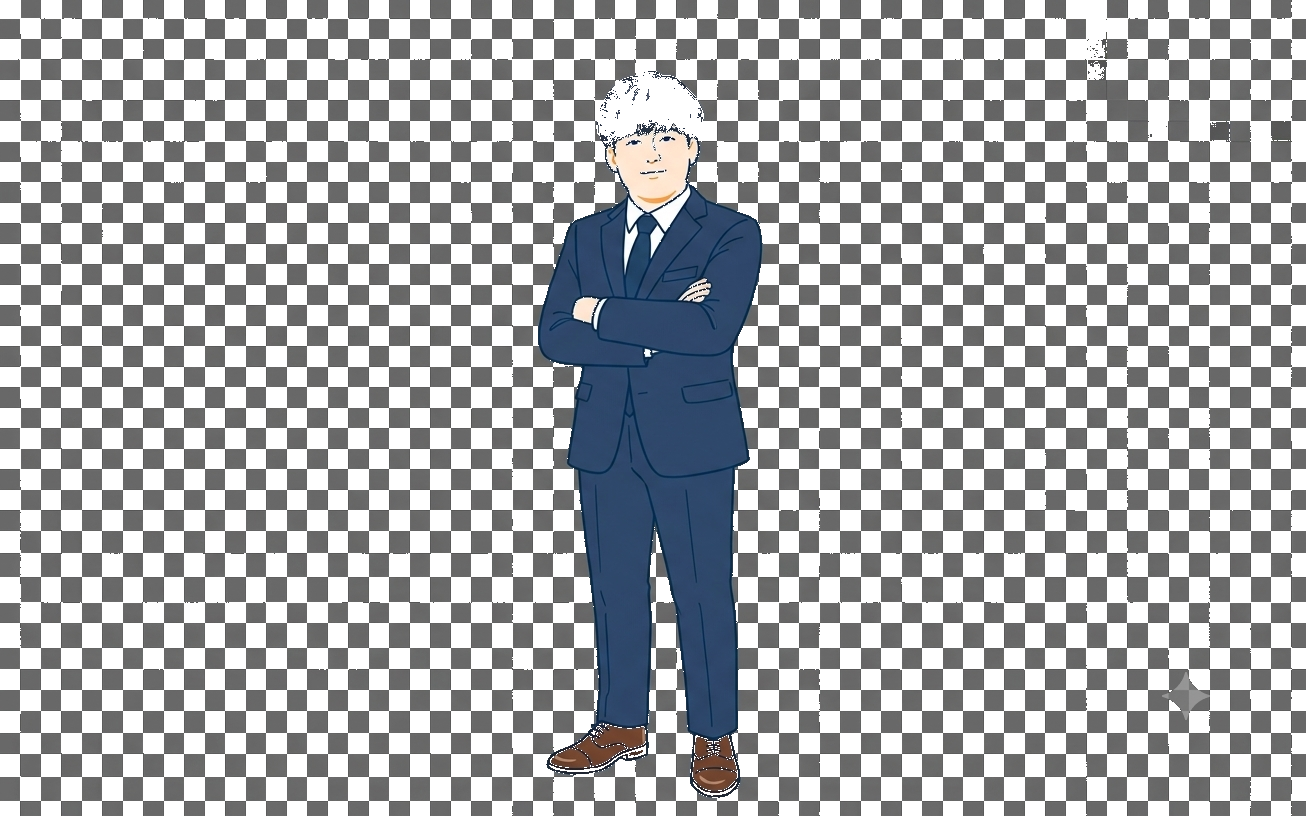
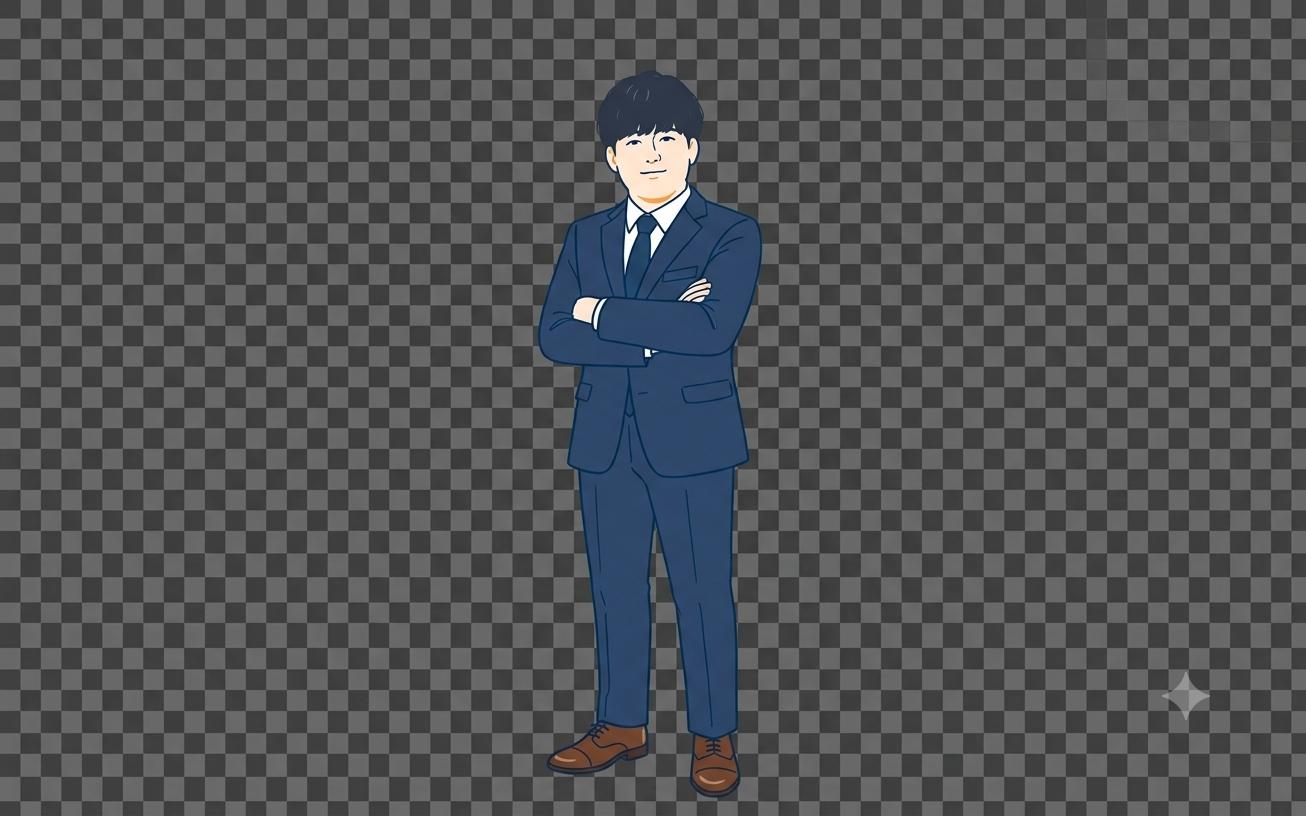
代表写真の髪の毛の色を修正・全ページレスポンシブ対応
- founder.png: 暗い背景のオリジナル画像を使用して髪の色を正常に表示
- about.html: CEO写真エリアの背景色を画像に合わせて調整
- index.html: モバイル対応強化（stat strip折り返し、CP表、各セクションpaddingなど）
- service-studio.html: モバイルナビ・全セクションレスポンシブ追加
- service-corporate/lp/renewal/system.html: hero・CTA・grid レスポンシブ修正

diff --git a/service-studio.html b/service-studio.html
@@ -96,6 +96,52 @@
     /* FOOTER */
     footer { background:#060606; padding:40px 80px; border-top:1px solid #181818; text-align:center; }
     .ft-copy { font-size:12px; color:rgba(255,255,255,0.18); font-family:'Inter',sans-serif; }
+
+    /* HAMBURGER */
+    .h-burger { display:none; flex-direction:column; justify-content:center; align-items:center; width:40px; height:40px; background:transparent; border:none; cursor:pointer; gap:5px; padding:8px; }
+    .h-burger span { display:block; width:20px; height:1.5px; background:var(--black); transition:transform .3s cubic-bezier(.22,1,.36,1),opacity .25s; transform-origin:center; }
+    .h-burger.open span:nth-child(1) { transform:translateY(6.5px) rotate(45deg); }
+    .h-burger.open span:nth-child(2) { opacity:0; transform:scaleX(0); }
+    .h-burger.open span:nth-child(3) { transform:translateY(-6.5px) rotate(-45deg); }
+
+    /* MOBILE NAV */
+    .mob-nav { position:fixed; inset:0; z-index:700; background:rgba(255,255,255,.98); backdrop-filter:blur(24px); display:flex; flex-direction:column; justify-content:center; align-items:center; transform:translateY(-100%); opacity:0; transition:transform .5s cubic-bezier(.22,1,.36,1),opacity .4s; pointer-events:none; }
+    .mob-nav.open { transform:translateY(0); opacity:1; pointer-events:all; }
+    .mob-link { font-size:clamp(22px,5vw,28px); font-weight:700; color:var(--black); text-decoration:none; padding:14px 0; border-bottom:1px solid #e8e8e8; width:72%; text-align:center; letter-spacing:-0.02em; transition:color .18s; }
+    .mob-link:first-child { border-top:1px solid #e8e8e8; }
+    .mob-cta-btn { margin-top:32px; background:var(--black); color:#fff; font-size:15px; font-weight:700; padding:16px 52px; border-radius:4px; text-decoration:none; }
+
+    /* RESPONSIVE */
+    @media(max-width:1024px){
+      header { padding:0 32px; }
+      nav { gap:20px; }
+      nav a { font-size:13px; }
+      .page-hero { padding:120px 40px 72px; }
+      section { padding:72px 40px; }
+      .overview-grid { grid-template-columns:1fr; gap:40px; }
+      .what-grid { grid-template-columns:1fr 1fr; }
+      .cta-section { padding:72px 40px; }
+      footer { padding:32px 40px; }
+    }
+    @media(max-width:767px){
+      header { padding:0 20px; height:60px; }
+      nav { display:none !important; }
+      .h-burger { display:flex; }
+      .page-hero { padding:100px 22px 60px; }
+      .page-title { font-size:clamp(28px,8vw,48px); }
+      section { padding:60px 22px; }
+      .overview-grid { grid-template-columns:1fr; gap:32px; }
+      .what-grid { grid-template-columns:1fr; gap:2px; }
+      .lec-row { grid-template-columns:56px 1fr; }
+      .lec-body { padding:24px 22px; }
+      .price-card { padding:36px 28px; }
+      .cta-section { padding:60px 22px; }
+      footer { padding:28px 22px; }
+    }
+    @media(max-width:480px){
+      .page-title { font-size:clamp(24px,9vw,40px); }
+      .price-val { font-size:clamp(24px,7vw,40px); }
+    }
   </style>
 </head>
 <body>
@@ -109,7 +155,17 @@
       <a href="index.html#flow">制作の流れ</a>
       <a href="index.html#contact" class="hd-cta">お問い合わせ →</a>
     </nav>
+    <button class="h-burger" id="h-burger" aria-label="メニューを開く">
+      <span></span><span></span><span></span>
+    </button>
   </header>
+
+  <div class="mob-nav" id="mob-nav">
+    <a href="index.html" class="mob-link">ホーム</a>
+    <a href="index.html#services" class="mob-link">サービス</a>
+    <a href="index.html#works" class="mob-link">制作実績</a>
+    <a href="index.html#contact" class="mob-cta-btn">お問い合わせ →</a>
+  </div>
 
   <!-- HERO -->
   <div class="page-hero">
@@ -213,6 +269,19 @@
   <script>
     const hdr = document.getElementById('hdr');
     window.addEventListener('scroll', () => hdr.classList.toggle('scrolled', scrollY > 40));
+    /* Mobile nav */
+    const burger = document.getElementById('h-burger');
+    const mobNav = document.getElementById('mob-nav');
+    if(burger && mobNav){
+      burger.addEventListener('click', () => {
+        burger.classList.toggle('open');
+        mobNav.classList.toggle('open');
+      });
+      mobNav.querySelectorAll('a').forEach(a => a.addEventListener('click', () => {
+        burger.classList.remove('open');
+        mobNav.classList.remove('open');
+      }));
+    }
   </script>
 </body>
 </html>

diff --git a/index.html b/index.html
@@ -1113,6 +1113,13 @@ footer.ft-wrap{
   .hero-inner{grid-template-columns:1fr;padding:80px 40px 64px;gap:40px}
   .imac-wrap{max-width:560px;margin:0 auto}
 
+  /* Section padding */
+  .sec{padding:80px 32px}
+  #services{padding:80px 32px}
+  #cases{padding:80px 32px}
+  #faq{padding:80px 32px}
+  #cta{padding:100px 32px}
+
   /* Vision */
   #vision{padding:80px 40px}
   .vis-wrap{grid-template-columns:1fr;gap:64px}
@@ -1124,10 +1131,25 @@ footer.ft-wrap{
   .val-head{margin-bottom:40px}
   .val-bento{grid-template-columns:1fr 1fr}
 
+  /* Cases */
+  .case-grid{grid-template-columns:1fr}
+  .logo-grid{grid-template-columns:repeat(3,1fr)}
+
   .cul-grid{grid-template-columns:1fr;gap:48px}
   .cul-img{aspect-ratio:16/7}
+  .cul-cards{grid-template-columns:1fr 1fr}
 
   .data-grid{grid-template-columns:1fr 1fr}
+
+  /* Service cards tablet */
+  .svc-stack{margin-top:48px}
+
+  /* CTA box */
+  .cta-in{padding:48px 40px}
+
+  /* Company band */
+  .cp-band{padding:40px 32px}
+  .cp-body{padding:32px 32px 48px}
 
 }
 
@@ -2424,6 +2446,27 @@ footer.ft-wrap{
   .hs-card-r{padding:14px 16px;right:-6px;top:50%}
   .hs-num-big{font-size:32px}
   .hs-tab{padding:6px 12px;font-size:10px}
+  /* Hero h1 word overflow fix */
+  #hero .h1 .ln .w{white-space:normal}
+  /* Hero stat strip wrapping */
+  .h-stats{flex-wrap:wrap;gap:0;padding-top:24px}
+  .hst{padding-right:24px;margin-right:24px;padding-bottom:16px}
+  /* CTA card padding */
+  .cta-in{padding:40px 28px !important}
+  /* Services title no-overflow */
+  .svc-ttl{white-space:normal !important}
+  .svc-ttl-row{flex-wrap:wrap;gap:16px}
+  .svc-ttl-rule{display:none}
+  /* Company profile table */
+  .cp-tbl{display:block}
+  .cp-tbl tbody,.cp-tbl tr,.cp-tbl th,.cp-tbl td{display:block;width:100%}
+  .cp-tbl th{width:100% !important;padding:16px 0 4px;font-size:12px;color:var(--ink3);border-bottom:none}
+  .cp-tbl td{padding:0 0 16px;font-size:15px}
+  .cp-tbl tr{border-bottom:1px solid #e0e0e0}
+  .cp-tbl tr:first-child{border-top:1px solid #e0e0e0}
+  /* band heading size */
+  .cp-band-h{font-size:26px}
+  .cp-band-sub{font-size:14px}
 }
 
 </style>

diff --git a/service-corporate.html b/service-corporate.html
@@ -242,6 +242,9 @@ header{position:fixed;top:0;left:0;right:0;z-index:800;display:flex;align-items:
   header{padding:12px 24px}
   .h-item>a{padding:8px 10px;font-size:13px}
   .h-cta{padding:9px 18px !important;font-size:13px !important}
+  .feat-grid{grid-template-columns:1fr}
+  .feat-photo{min-height:280px}
+  .feat-body{padding:40px 36px}
   .reason-grid{grid-template-columns:1fr 1fr}
   .inc-grid{grid-template-columns:repeat(2,1fr)}
   .works-grid{grid-template-columns:1fr 1fr}
@@ -260,12 +263,17 @@ header{position:fixed;top:0;left:0;right:0;z-index:800;display:flex;align-items:
   .stat-item:nth-child(3),.stat-item:nth-child(4){border-bottom:none}
   .lead{padding:72px 22px 48px}
   .sec{padding:68px 22px}
+  .feat-grid{grid-template-columns:1fr}
+  .feat-photo{min-height:220px}
+  .feat-body{padding:28px 22px}
+  .feat-grid.rev .feat-photo{order:unset}
   .reason-grid{grid-template-columns:1fr}
   .inc-grid{grid-template-columns:1fr}
   .flow-row{grid-template-columns:64px 1fr;padding:24px 22px}
   .flow-days{display:none}
   .works-grid{grid-template-columns:1fr}
   #cta{padding:40px 22px}
+  .cta-in{padding:36px 24px}
   .ft{padding:52px 22px 22px}
   .ft-top{flex-direction:column}
   .ft-links{flex-wrap:wrap;gap:32px}

diff --git a/about.html b/about.html
@@ -193,17 +193,17 @@ header{position:fixed;top:0;left:0;right:0;z-index:800;display:flex;align-items:
 .ab-ceo{background:var(--ink);padding:0}
 .ab-ceo-in{
   max-width:1200px;margin:0 auto;
-  display:grid;grid-template-columns:520px 1fr;
+  display:grid;grid-template-columns:minmax(0,520px) 1fr;
   min-height:680px;
 }
 /* 左：写真エリア */
 .ab-ceo-photo{
   position:relative;overflow:hidden;
-  background:var(--ink);
+  background:#3f4040;
 }
 .ab-ceo-photo img{
   width:100%;height:100%;
-  object-fit:cover;object-position:center top;
+  object-fit:cover;object-position:center center;
   display:block;
 }
 /* 右：テキスト */
@@ -283,7 +283,7 @@ header{position:fixed;top:0;left:0;right:0;z-index:800;display:flex;align-items:
   .ab-strip-grid{height:260px}
   .ab-mission{padding:96px 40px}
   .ab-promises{padding:96px 40px}
-  .ab-ceo-in{grid-template-columns:340px 1fr}
+  .ab-ceo-in{grid-template-columns:minmax(0,340px) 1fr}
   .ab-ceo-text{padding:60px 44px}
   .ab-overview{padding:96px 40px}
   .ab-cta{padding:96px 40px}

diff --git a/service-renewal.html b/service-renewal.html
@@ -162,6 +162,8 @@ header{position:fixed;top:0;left:0;right:0;z-index:800;display:flex;align-items:
   .h-burger{display:flex}
   .hero{height:88vh;min-height:480px}
   .hero-inner{padding:0 22px 44px}
+  .hero-actions{flex-direction:column;align-items:stretch}
+  .hero-btn,.hero-btn-ghost{justify-content:center;text-align:center}
   .stat-bar-in{grid-template-columns:repeat(2,1fr)}
   .stat-item{border-bottom:1px solid rgba(255,255,255,.08)}
   .stat-item:nth-child(2){border-right:none}
@@ -174,6 +176,7 @@ header{position:fixed;top:0;left:0;right:0;z-index:800;display:flex;align-items:
   .flow-days{display:none}
   .works-grid{grid-template-columns:1fr}
   #cta{padding:40px 22px}
+  .cta-in{padding:36px 24px}
   .ft{padding:52px 22px 22px}
   .ft-top{flex-direction:column}
   .ft-links{flex-wrap:wrap;gap:32px}

diff --git a/service-system.html b/service-system.html
@@ -169,6 +169,8 @@ header{position:fixed;top:0;left:0;right:0;z-index:800;display:flex;align-items:
   .h-burger{display:flex}
   .hero{height:88vh;min-height:480px}
   .hero-inner{padding:0 22px 44px}
+  .hero-actions{flex-direction:column;align-items:stretch}
+  .hero-btn,.hero-btn-ghost{justify-content:center;text-align:center}
   .stat-bar-in{grid-template-columns:repeat(2,1fr)}
   .stat-item{border-bottom:1px solid rgba(255,255,255,.08)}
   .stat-item:nth-child(2){border-right:none}
@@ -181,6 +183,7 @@ header{position:fixed;top:0;left:0;right:0;z-index:800;display:flex;align-items:
   .flow-days{display:none}
   .works-grid{grid-template-columns:1fr}
   #cta{padding:40px 22px}
+  .cta-in{padding:36px 24px}
   .ft{padding:52px 22px 22px}
   .ft-top{flex-direction:column}
   .ft-links{flex-wrap:wrap;gap:32px}

diff --git a/service-lp.html b/service-lp.html
@@ -162,6 +162,8 @@ header{position:fixed;top:0;left:0;right:0;z-index:800;display:flex;align-items:
   .h-burger{display:flex}
   .hero{height:88vh;min-height:480px}
   .hero-inner{padding:0 22px 44px}
+  .hero-actions{flex-direction:column;align-items:stretch}
+  .hero-btn,.hero-btn-ghost{justify-content:center;text-align:center}
   .lead{padding:72px 22px 48px}
   .sec{padding:68px 22px}
   .reason-grid{grid-template-columns:1fr}
@@ -170,6 +172,7 @@ header{position:fixed;top:0;left:0;right:0;z-index:800;display:flex;align-items:
   .flow-days{display:none}
   .works-grid{grid-template-columns:1fr}
   #cta{padding:40px 22px}
+  .cta-in{padding:36px 24px}
   .ft{padding:52px 22px 22px}
   .ft-top{flex-direction:column}
   .ft-links{flex-wrap:wrap;gap:32px}
